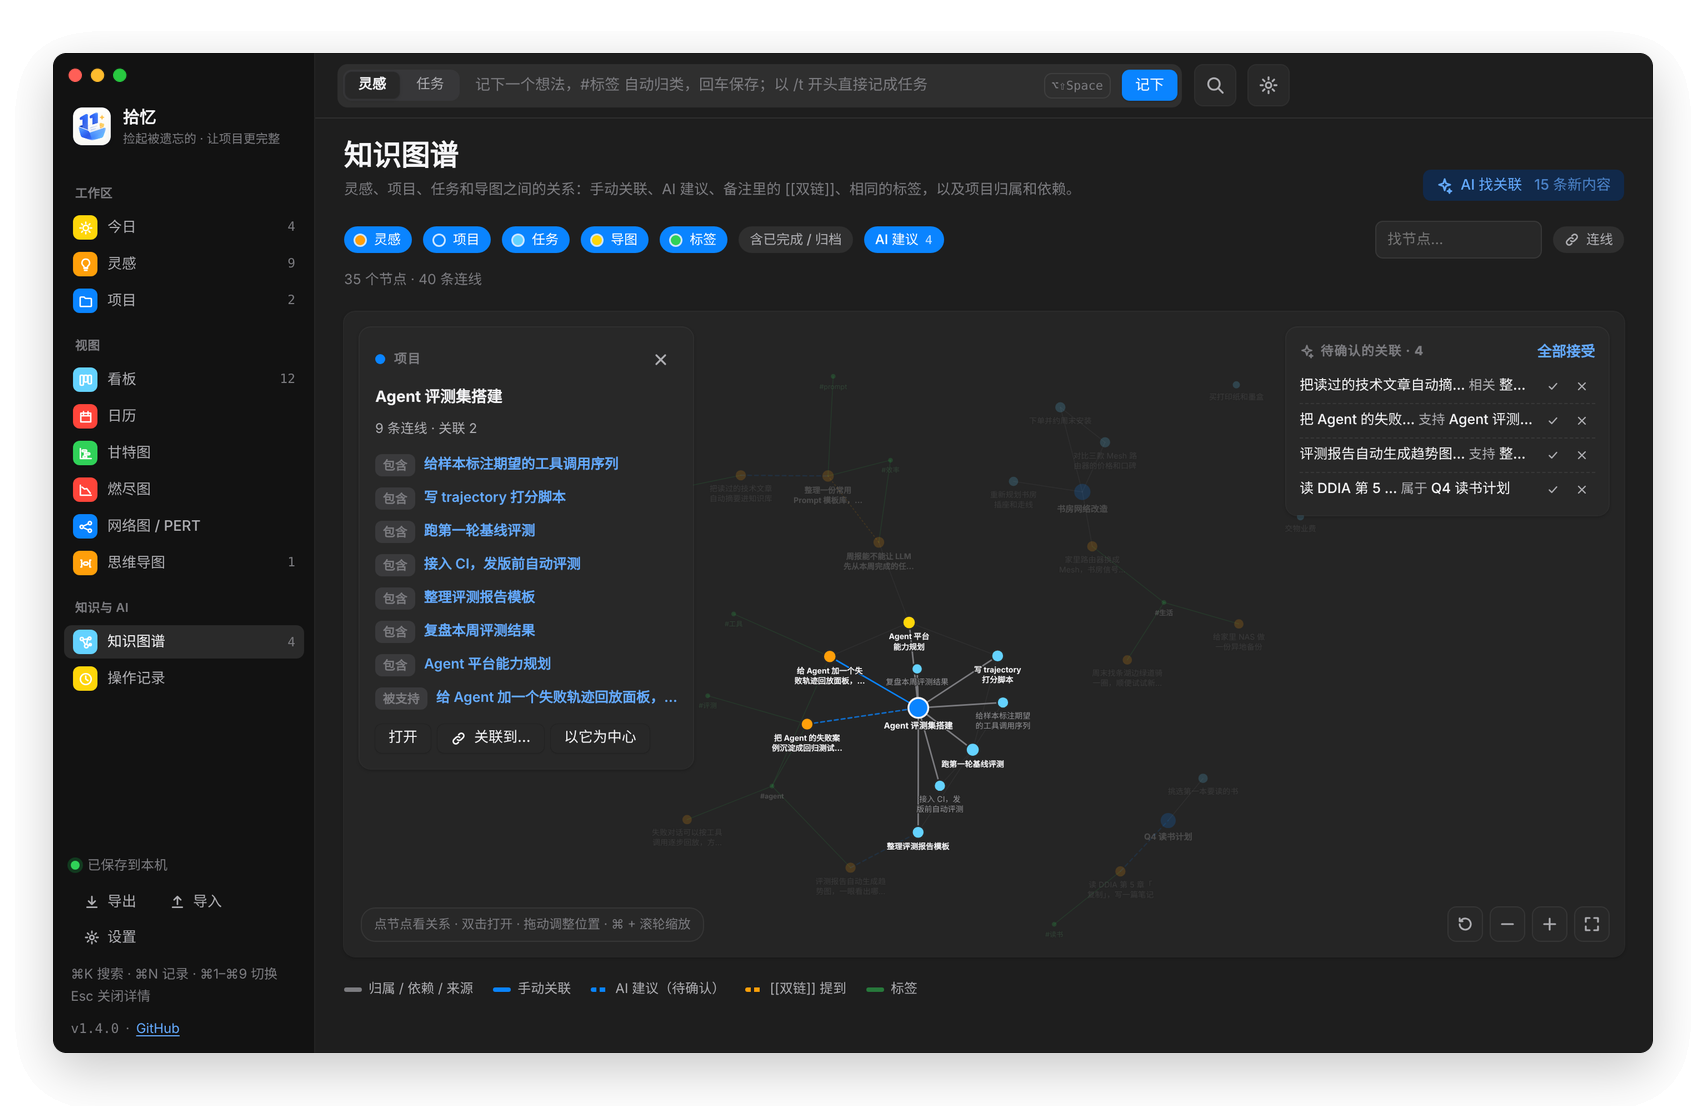
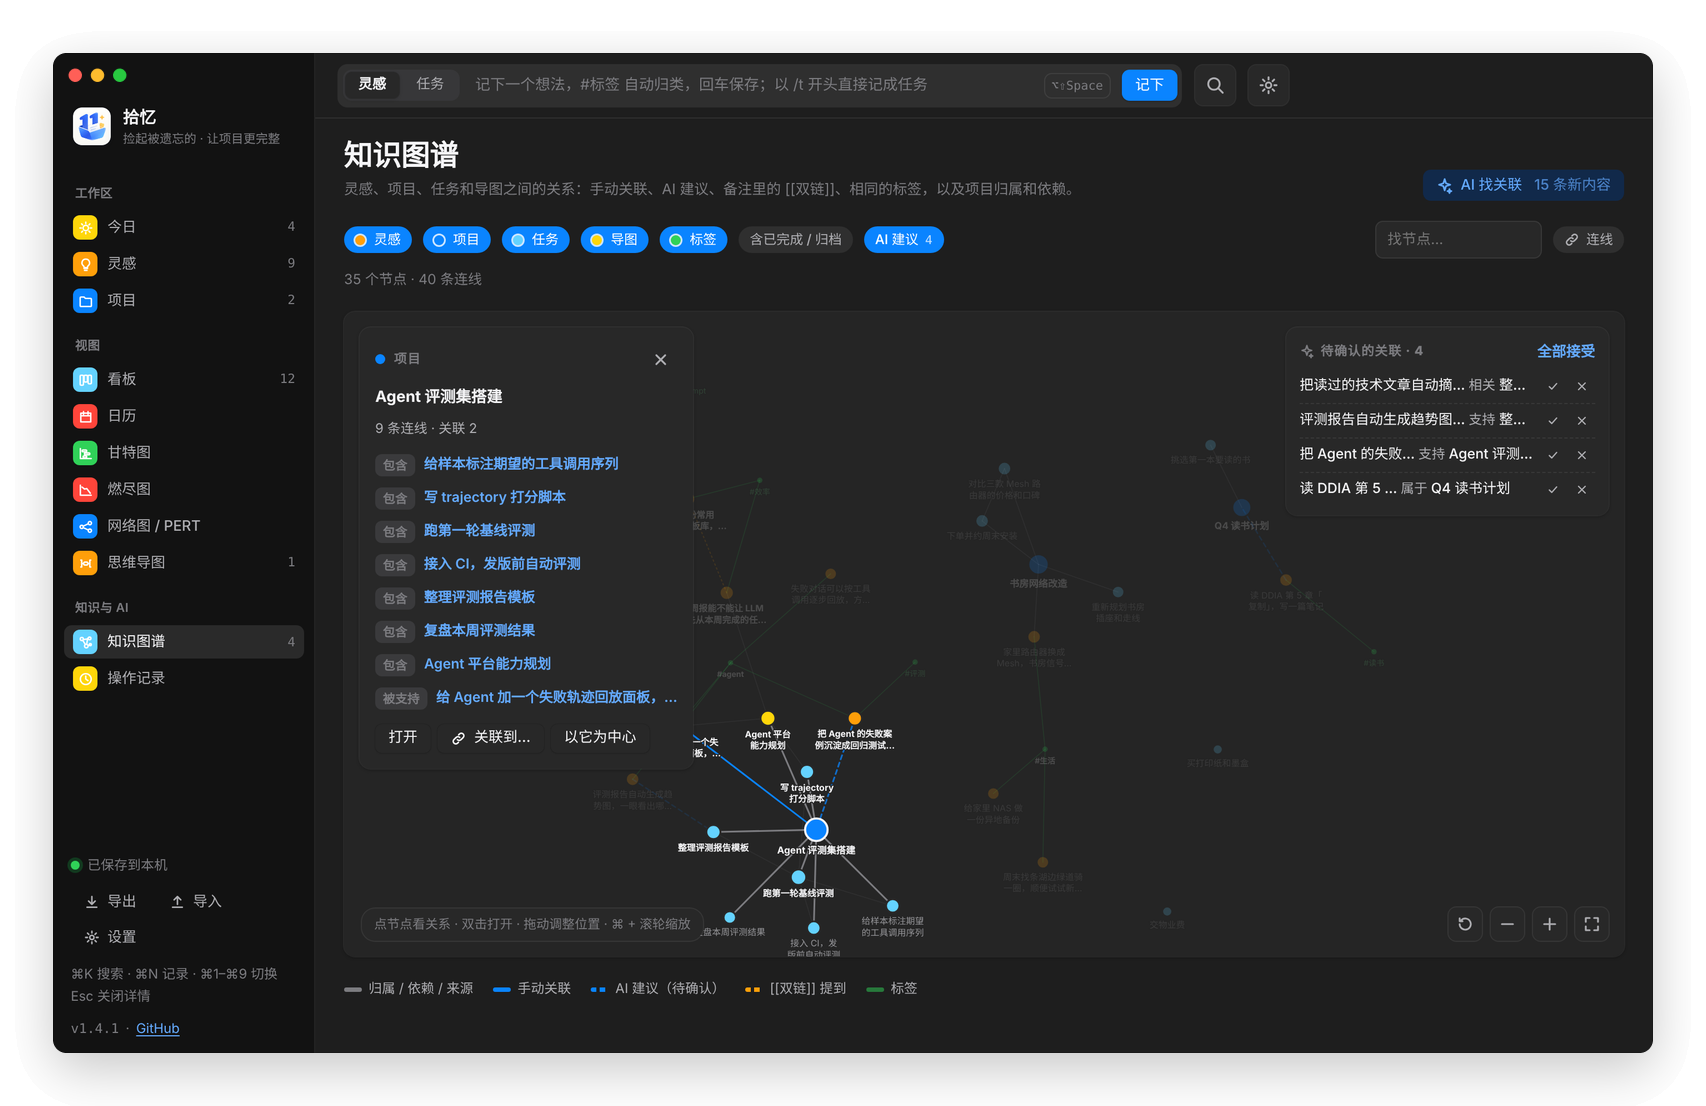
版本 1.4.1：知识图谱节点与名称不再重叠
Claude-Session: https://claude.ai/code/session_017SpTzLsBopcBvD6Ewedaaq

diff --git a/scripts/e2e/serve.py b/scripts/e2e/serve.py
@@ -76,10 +76,10 @@ def call(cmd, a):
         return {"ok": "今天要做 3 件，逾期 1 件"}
     if cmd == "diagnostics":
         st = call("core_query", {"q": {"q": "status"}}).get("ok", {})
-        return {"ok": {"version": "1.4.0", "os": "macos", "arch": "aarch64", "osVersion": "15.1", "counts": st.get("counts", {}), "permission": st.get("agent_permission"),
+        return {"ok": {"version": "1.4.1", "os": "macos", "arch": "aarch64", "osVersion": "15.1", "counts": st.get("counts", {}), "permission": st.get("agent_permission"),
                        "dbBytes": 1_350_000, "dbError": None, "lastBackup": "2026-10-25", "provider": FAKE["provider"], "hasKey": True, "format": "anthropic",
                        "model": "deepseek-flash", "quickModel": "deepseek-flash", "cli": True, "skill": True, "skillCurrent": True, "autoUpdate": True, "prefs": PREFS,
-                       "log": ["2026-10-25T09:00:01+08:00 启动 v1.4.0（macos/aarch64）", "2026-10-25T10:12:40+08:00 AI 调用失败（deepseek）：HTTP 401：invalid api key"]}}
+                       "log": ["2026-10-25T09:00:01+08:00 启动 v1.4.1（macos/aarch64）", "2026-10-25T10:12:40+08:00 AI 调用失败（deepseek）：HTTP 401：invalid api key"]}}
     if cmd == "open_feedback":
         FAKE["feedback"] = a; return {"ok": None}
     if cmd == "e2e_state":
@@ -88,16 +88,16 @@ def call(cmd, a):
         return {"ok": "你好"}
     if cmd == "app_info":
         import os
-        return {"ok": {"version": "1.4.0", "repo": "https://github.com/LJS1124/shiyi-desktop", "data_path": args.db, "backups": str(pathlib.Path(args.db).parent / "backups"), "os": "macos", "auto_update": True}}
+        return {"ok": {"version": "1.4.1", "repo": "https://github.com/LJS1124/shiyi-desktop", "data_path": args.db, "backups": str(pathlib.Path(args.db).parent / "backups"), "os": "macos", "auto_update": True}}
     if cmd == "check_update":
         # pretend a newer release exists unless SHIYI_FAKE_UPDATE=none
         import os
         if os.environ.get("SHIYI_FAKE_UPDATE") == "none":
-            return {"ok": {"available": False, "current": "1.4.0", "version": "1.4.0", "notes": "", "page": "https://github.com/LJS1124/shiyi-desktop/releases/tag/v1.1.1"}}
+            return {"ok": {"available": False, "current": "1.4.1", "version": "1.4.1", "notes": "", "page": "https://github.com/LJS1124/shiyi-desktop/releases/tag/v1.1.1"}}
         notes = (ROOT / "docs/releases/v1.1.1.md").read_text(encoding="utf-8")
-        return {"ok": {"available": True, "current": "1.4.0", "version": "1.4.0", "tag": "v1.4.0", "notes": notes, "published_at": "2026-10-20T08:00:00Z",
-                       "page": "https://github.com/LJS1124/shiyi-desktop/releases/tag/v1.4.0", "asset_name": "Shiyi_1.4.0_universal.dmg",
-                       "asset_url": "https://github.com/LJS1124/shiyi-desktop/releases/download/v1.4.0/Shiyi_1.4.0_universal.dmg"}}
+        return {"ok": {"available": True, "current": "1.4.1", "version": "1.4.1", "tag": "v1.4.1", "notes": notes, "published_at": "2026-10-20T08:00:00Z",
+                       "page": "https://github.com/LJS1124/shiyi-desktop/releases/tag/v1.4.1", "asset_name": "Shiyi_1.4.1_universal.dmg",
+                       "asset_url": "https://github.com/LJS1124/shiyi-desktop/releases/download/v1.4.1/Shiyi_1.4.1_universal.dmg"}}
     if cmd == "update_install":
         return {"err": "检查更新失败：模拟环境不能安装"}
     if cmd == "open_project_url":

diff --git a/scripts/e2e/test_app.py b/scripts/e2e/test_app.py
@@ -157,7 +157,7 @@ try:
         pg.evaluate("SY.noteError('e2e 测试报错', 'test')")
         pg.click('#s-about [data-act="diag-open"]'); pg.wait_for_selector("#diag-text")
         diag = pg.inner_text("#diag-text")
-        check("v1.4.0" in diag and "任务 " in diag and "e2e 测试报错" in diag, "diagnostics list version, counts and recent errors")
+        check("v1.4.1" in diag and "任务 " in diag and "e2e 测试报错" in diag, "diagnostics list version, counts and recent errors")
         check("sk-test" not in diag and "失败轨迹回放面板" not in diag, "diagnostics hold no key and no note contents")
         pg.click('#m-foot [data-act="feedback"]'); pg.wait_for_selector("#fb-title")
         pg.fill("#fb-title", "导图节点拖不动"); pg.fill("#fb-body", "拖到另一个分支后弹回原位")

diff --git a/docs/releases/v1.4.1.md b/docs/releases/v1.4.1.md
@@ -1,0 +1,10 @@
+拾忆 1.4.1：知识图谱里的节点和名称不再互相重叠。
+
+已装 1.2.x 及以上：设置 → 关于 → 检查更新 → 立即更新。
+
+## 改动
+
+- **知识图谱不再重叠**：排布时把每个节点的名称也算进去，节点和名称互不遮挡，一眼就能看全。
+- **长名称分两行显示**：能看到的字更多；英文单词不会从中间断开（单词本身太长时除外）。
+- **画布利用得更好**：彼此不相连的几组内容会紧凑地拼排在一起，适应窗口的形状，不再散得很开、缩得很小。
+- 缩到很小时才隐藏次要节点的名称。

diff --git a/docs/releases/v1.4.0.md b/docs/releases/v1.4.0.md
@@ -26,7 +26,6 @@
 
 ## 改动
 
-- **知识图谱不再重叠**：排布时把每个节点的名称也算进去，节点和名称互不遮挡；长名称分两行显示，能看到的字更多；彼此不相连的几组内容会紧凑地排在一起，不再散得很开。缩小到很小时才隐藏次要节点的名称。
 - **快捷键调整**：⌘K 改为搜索与命令；聚焦顶部记录框改为 ⌘N（Windows 上是 Ctrl+N），`/` 照旧可用。
 - 后台日志记在数据文件夹的 `logs/shiyi.log`，只记启动、备份、AI 和更新请求失败的原因，不记笔记内容、提示词和 Key。
 

diff --git a/README.md b/README.md
@@ -11,7 +11,7 @@
   <img src="https://img.shields.io/badge/macOS-11%2B-111?logo=apple" alt="macOS 11+">
   <img src="https://img.shields.io/badge/Windows-10%2B-0078D4?logo=windows" alt="Windows 10+">
   <img src="https://img.shields.io/badge/Tauri-2-24C8DB?logo=tauri&logoColor=white" alt="Tauri 2">
-  <img src="https://img.shields.io/badge/version-1.4.0-0A84FF" alt="1.4.0">
+  <img src="https://img.shields.io/badge/version-1.4.1-0A84FF" alt="1.4.1">
 </p>
 
 拾忆是一个 macOS 和 Windows 桌面应用，管理随手冒出来的想法、工作和生活里的项目，并把它们连成一张知识图谱。
